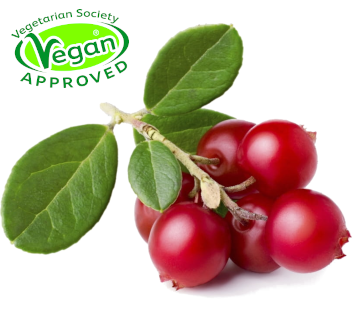
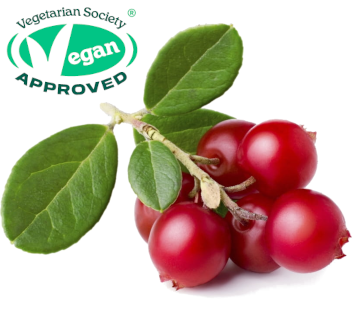
Update Vegan Approved trademarks with new design as per guidance by Vegsoc

Changed region(s): [[0.0, 0.0, 0.4051, 0.3067]]

diff --git a/news.html b/news.html
@@ -61,7 +61,7 @@
 
 							<h1>Fri 31.05.2024</h1>
 							<h3>Fermented Lingonberry Mouthwash is Vegan Approved</h3>
-							<p><span class="image left"></span><img src="images/vegan_approved_350x235.png" alt="Vegan Approved trademark" /></a></p>
+							<p><span class="image left"></span><img src="images/vegan_approved_350x245.png" alt="Vegan Approved trademark" /></a></p>
 							<p>We are delighted to announce that our <a href="./lingonberry.html" target="_blank">Fermented Lingonberry Mouthwash</a> has been approved by the Vegetarian Society as vegan. <br>
 								The Vegetarian Society’s vegan trademark is the most widely recognised vegan label in the UK. <br>
 								We are proud to have met the strict criteria set by the Vegetarian Society and to be able to display the vegan trademark on our product.</p>
